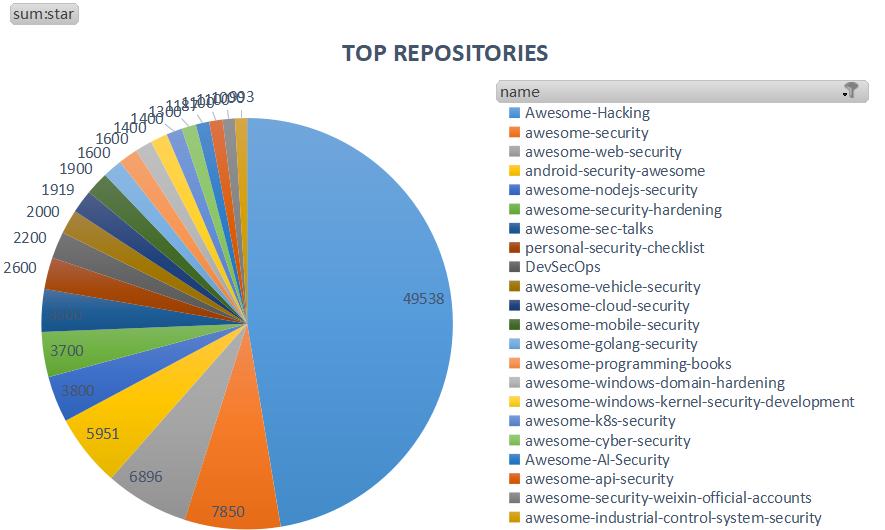
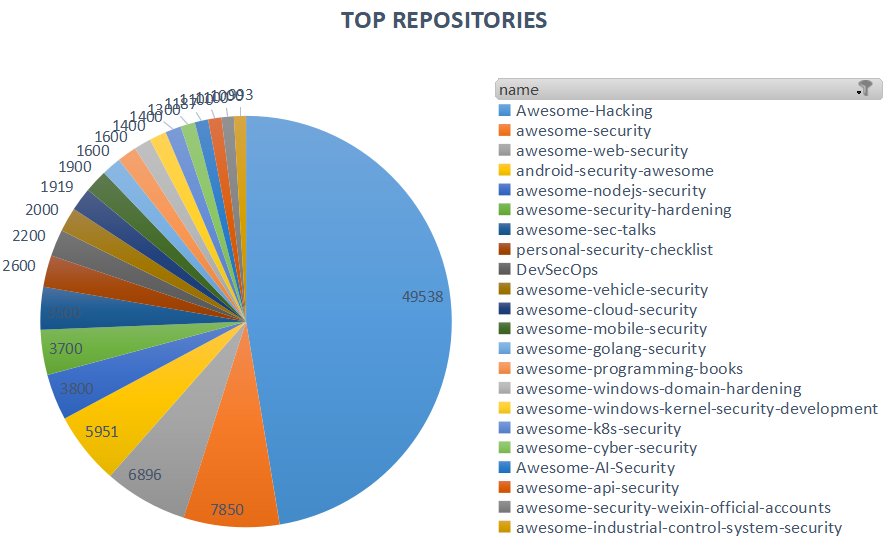
Fix some details about chart v2

diff --git a/README.md b/README.md
@@ -6,8 +6,10 @@ A collection of awesome repositories about security on github. We use *Python We
 <img src="https://github.com/liyansong2018/awesome-cybersecurity/blob/main/images/top_repositories.png" width="80%">
 </div>
 
+<br />
+
 <div align=center>
-<img src="https://github.com/liyansong2018/awesome-cybersecurity/blob/main/images/trend_repositories.png" width="70%">
+<img src="https://github.com/liyansong2018/awesome-cybersecurity/blob/main/images/trend_repositories.png" width="80%">
 </div>
 Awesome cybersecurity repositories (Updated in the last three years, 50 stars +)
 
